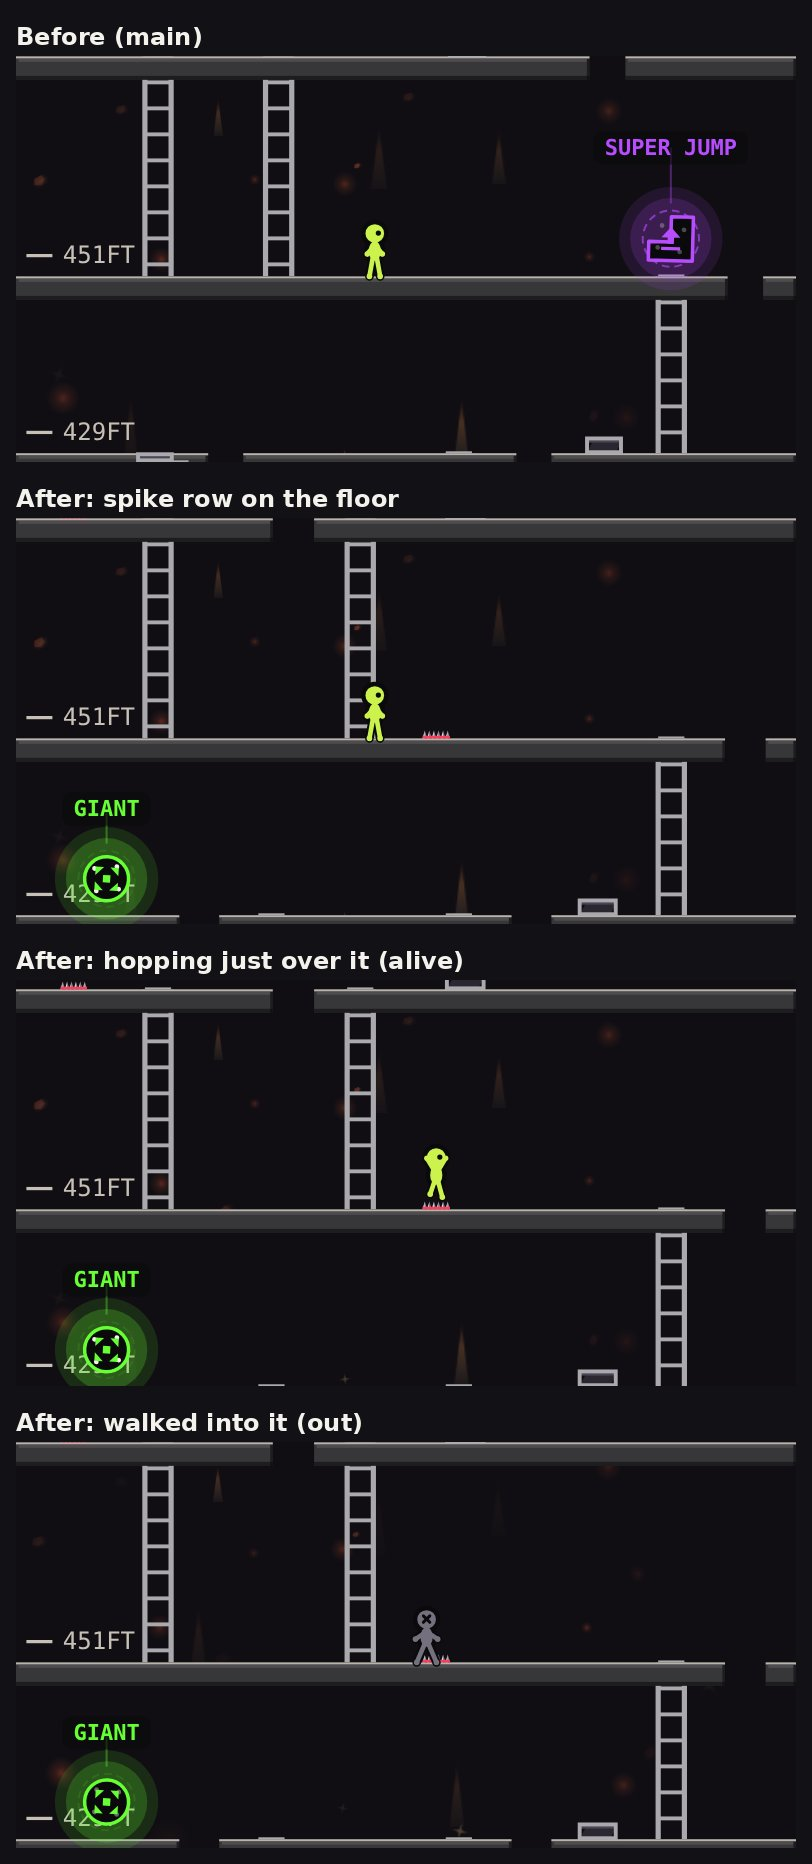
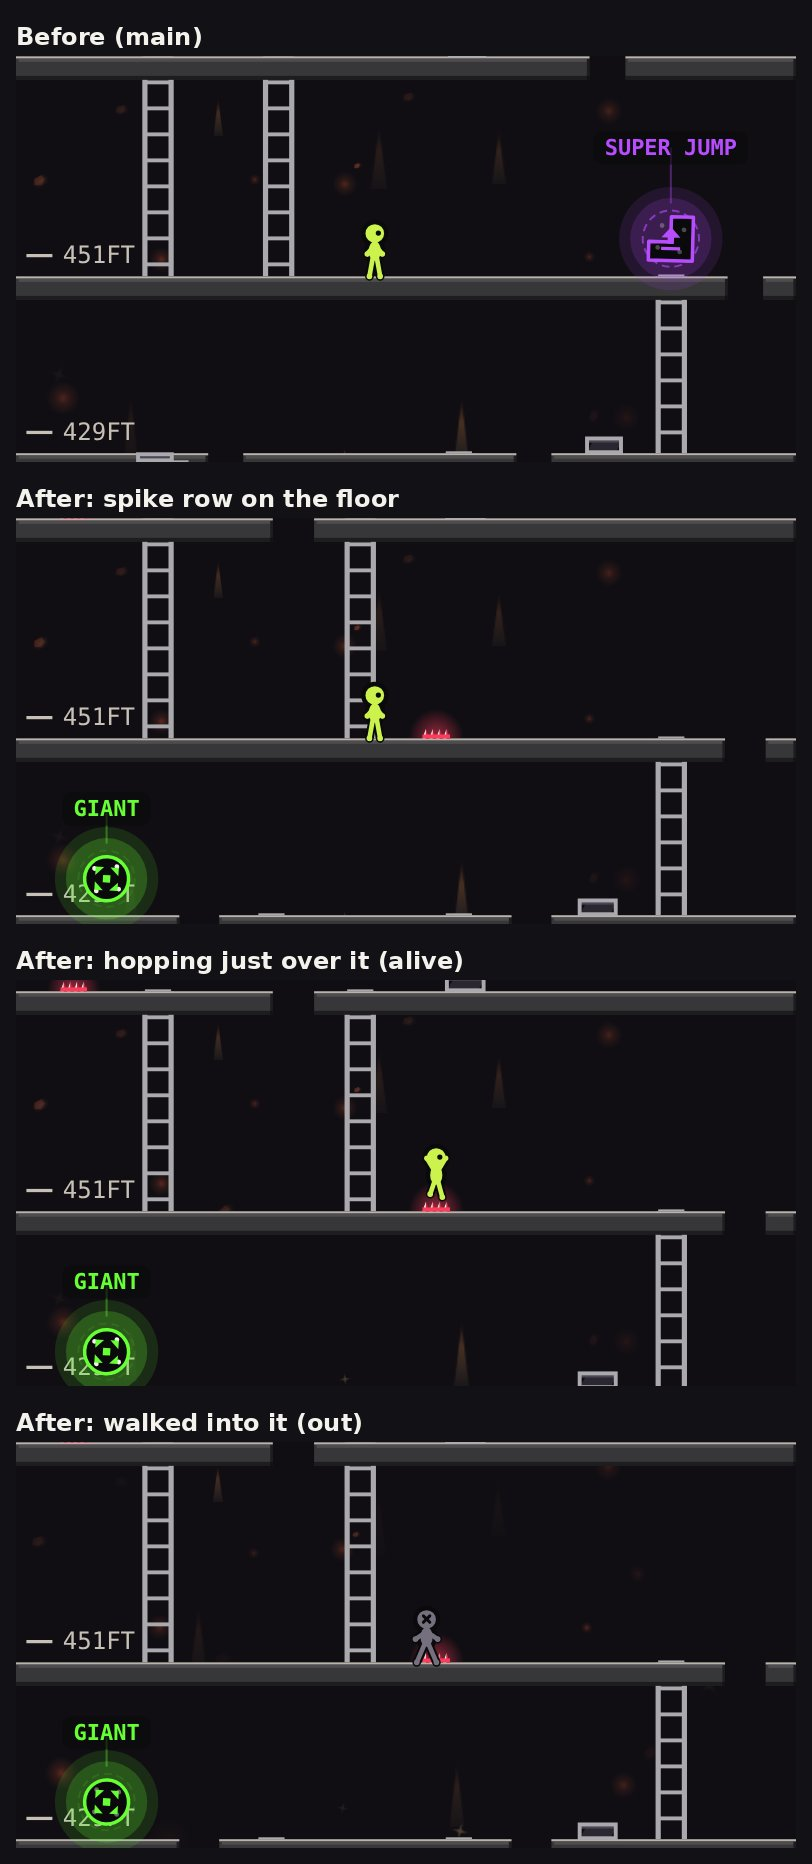
Make spikes easier to see
Leeran: the shorter spikes were hard to see. The deadly band goes from 1 m
to 1.25 m and the teeth still cover exactly that band, now white and red
with a soft red glow behind the row. A takeoff from 1.25 to 4.5 m before
the row still clears it at full run.

Claude-Session: https://claude.ai/code/session_01Vu3tQ3yZgtxqUyjYFNpL4r

diff --git a/app/src/components/Game/paintClimbFrame.ts b/app/src/components/Game/paintClimbFrame.ts
@@ -69,9 +69,10 @@ const CRATE_TOP = "#4a4656";
 const CRATE_FACE = "#3a3644";
 const LADDER = "#aaa9ad";
 /** Spikes: steel teeth on a danger-red base, unlike any crate or the lava. */
-const SPIKE_STEEL = "#e4e2ea";
-const SPIKE_SHADE = "#8f8c99";
+const SPIKE_STEEL = "#f4f2ec";
+const SPIKE_SHADE = "#c4213f";
 const SPIKE_DANGER = "#ff3b5c";
+const SPIKE_GLOW = "255, 59, 92";
 /** Climbing pose: hands sit this many climber units above the feet (shoulder 1.85 + 0.4). */
 const CLIMB_HAND_UNITS = 2.25;
 const OPPONENT_COLOR = "#6bb8ff"; // wayfinding blue — opponent in a duel
@@ -1021,7 +1022,7 @@ function drawObstacle(
 }
 
 /** Target tooth width (m); the row gets a whole number of teeth. */
-const SPIKE_TOOTH_M = 0.6;
+const SPIKE_TOOTH_M = 0.8;
 
 function drawSpikes(
   ctx: PaintCtx,
@@ -1043,7 +1044,20 @@ function drawSpikes(
   if (w <= 1) return;
   const teeth = Math.max(2, Math.round((s.x1 - s.x0 - 2 * SPIKE_INSET_M) / SPIKE_TOOTH_M));
   const tw = w / teeth;
-  const baseH = Math.max(1 * ui, pxPerM * 0.08);
+  const baseH = Math.max(1.5 * ui, pxPerM * 0.15);
+  // A faint red haze behind the row so it reads at a glance on a phone. It
+  // fades out well before the tips, so it never looks like part of the teeth.
+  const rx = w / 2 + 2 * tw;
+  const ry = (base - tip) * 3;
+  ctx.save();
+  ctx.translate(x0 + w / 2, base);
+  ctx.scale(1, ry / rx);
+  const glow = ctx.createRadialGradient(0, 0, 0, 0, 0, rx);
+  glow.addColorStop(0, `rgba(${SPIKE_GLOW}, 0.6)`);
+  glow.addColorStop(1, `rgba(${SPIKE_GLOW}, 0)`);
+  ctx.fillStyle = glow;
+  ctx.fillRect(-rx, -rx, 2 * rx, rx);
+  ctx.restore();
   for (let k = 0; k < teeth; k++) {
     const l = x0 + k * tw;
     // Lit left face, shaded right face, so each tooth reads as a point.

diff --git a/app/src/game/spikes.ts b/app/src/game/spikes.ts
@@ -36,7 +36,7 @@ import {
 } from "./towers";
 
 /** Height of the deadly band above the floor, in metres. */
-export const SPIKE_HEIGHT_M = 1;
+export const SPIKE_HEIGHT_M = 1.25;
 /** Row width at layout difficulty 0 and 1, before the seeded jitter. */
 export const SPIKE_WIDTH_M = { from: 3, to: 4.5 } as const;
 /** Seeded extra width, [0, this). */
